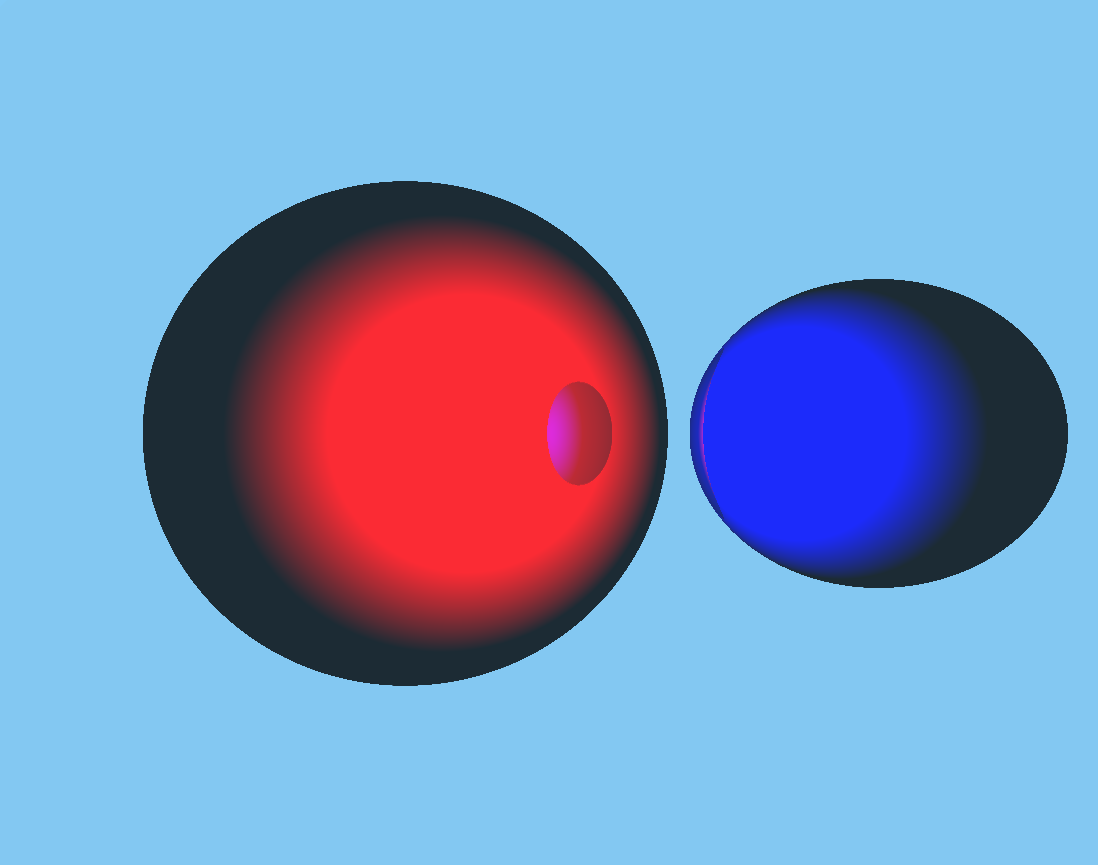
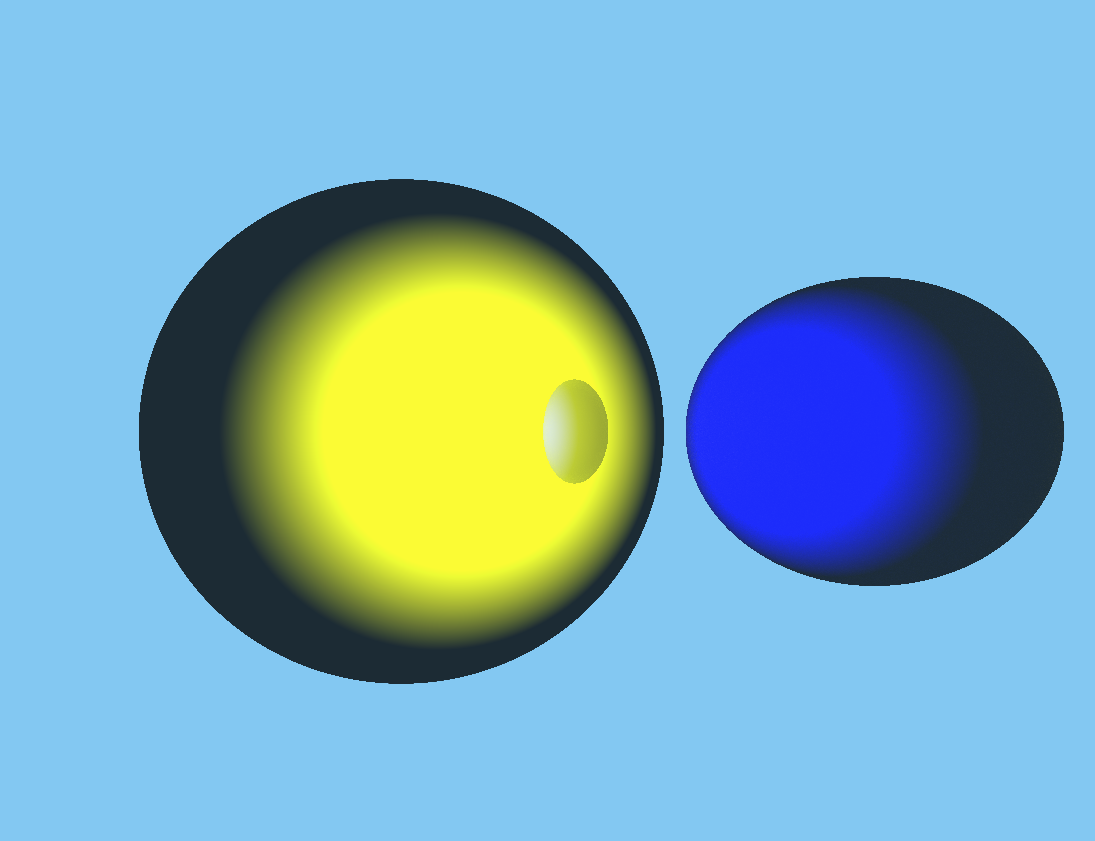
Added a new Render

diff --git a/Rayzer/src/Renderer.cpp b/Rayzer/src/Renderer.cpp
@@ -101,7 +101,7 @@ glm::vec4 Renderer::TraceRay(Ray& ray, int numBounces)
 	Sphere sphere1;
 	sphere1.origin = glm::vec3(1.0f, 0.0f, 3.0f);
 	sphere1.radius = 2.0f;
-	sphere1.mat.color = glm::vec3(1.0f, 0.0f, 0.0f);;
+	sphere1.mat.color = glm::vec3(1.0f, 1.0f, 0.0f);;
 	sphere1.mat.roughness = 0.0f;
 	sphere1.mat.emmisiveColor = glm::vec3(0.0f, 0.5f, 1.0f);
 	sphere1.mat.emmisivePower = 1.0f;
@@ -110,7 +110,7 @@ glm::vec4 Renderer::TraceRay(Ray& ray, int numBounces)
 	sphere2.origin = glm::vec3(-4.0f, 0.0f, 5.0f);
 	sphere2.radius = 2.0f;
 	sphere2.mat.color = glm::vec3(0.0f, 0.0f, 1.0f);
-	sphere2.mat.roughness = 0.0f;
+	sphere2.mat.roughness = 1.0f;
 	sphere2.mat.emmisiveColor = glm::vec3(1.0f, 0.5f, 0.2f);
 	sphere2.mat.emmisivePower = 1.0f;
 
